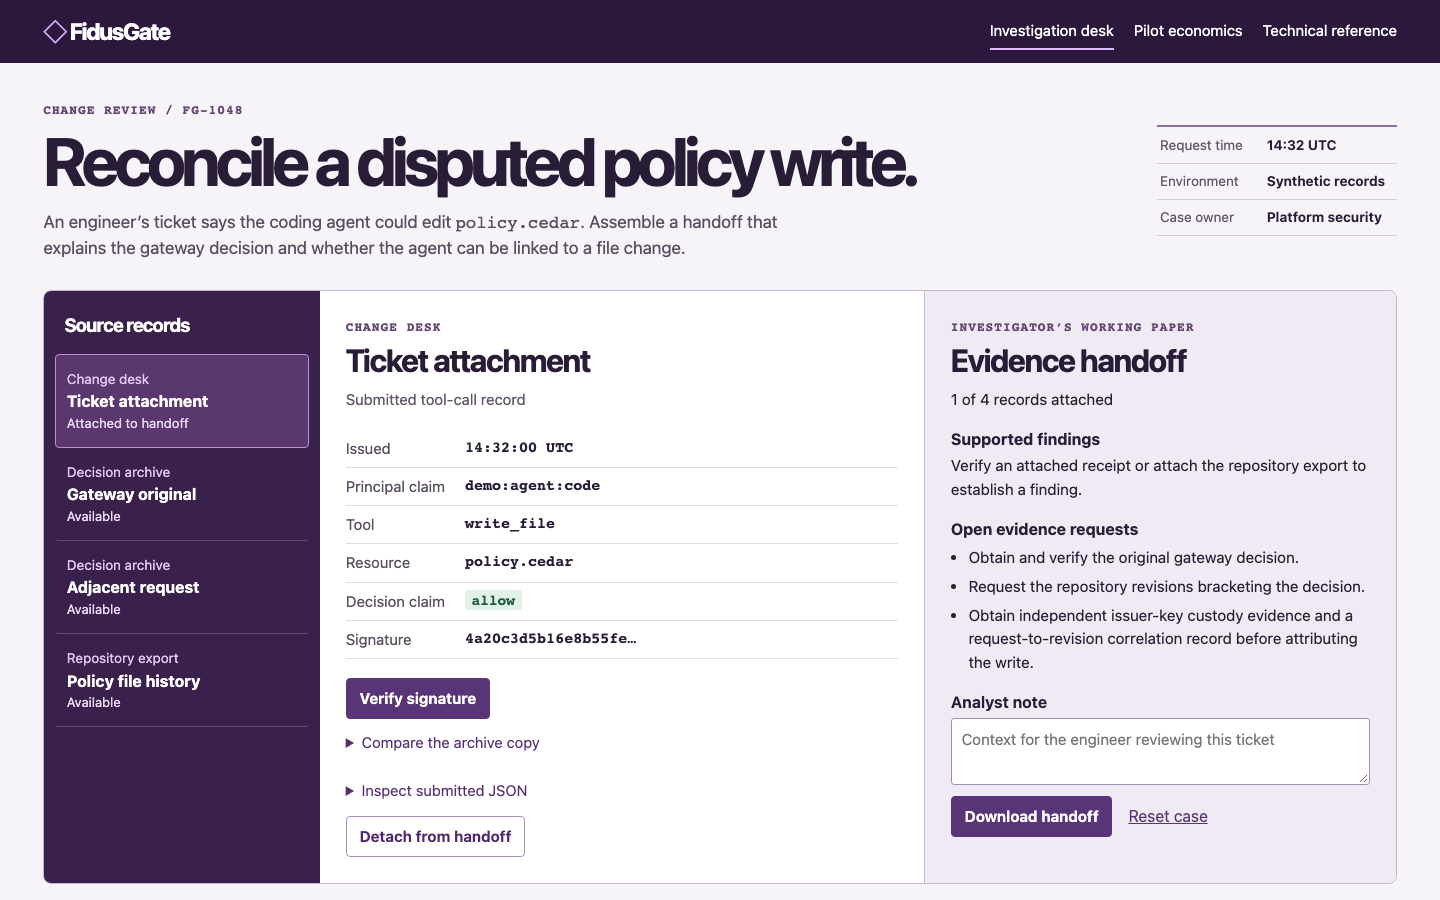
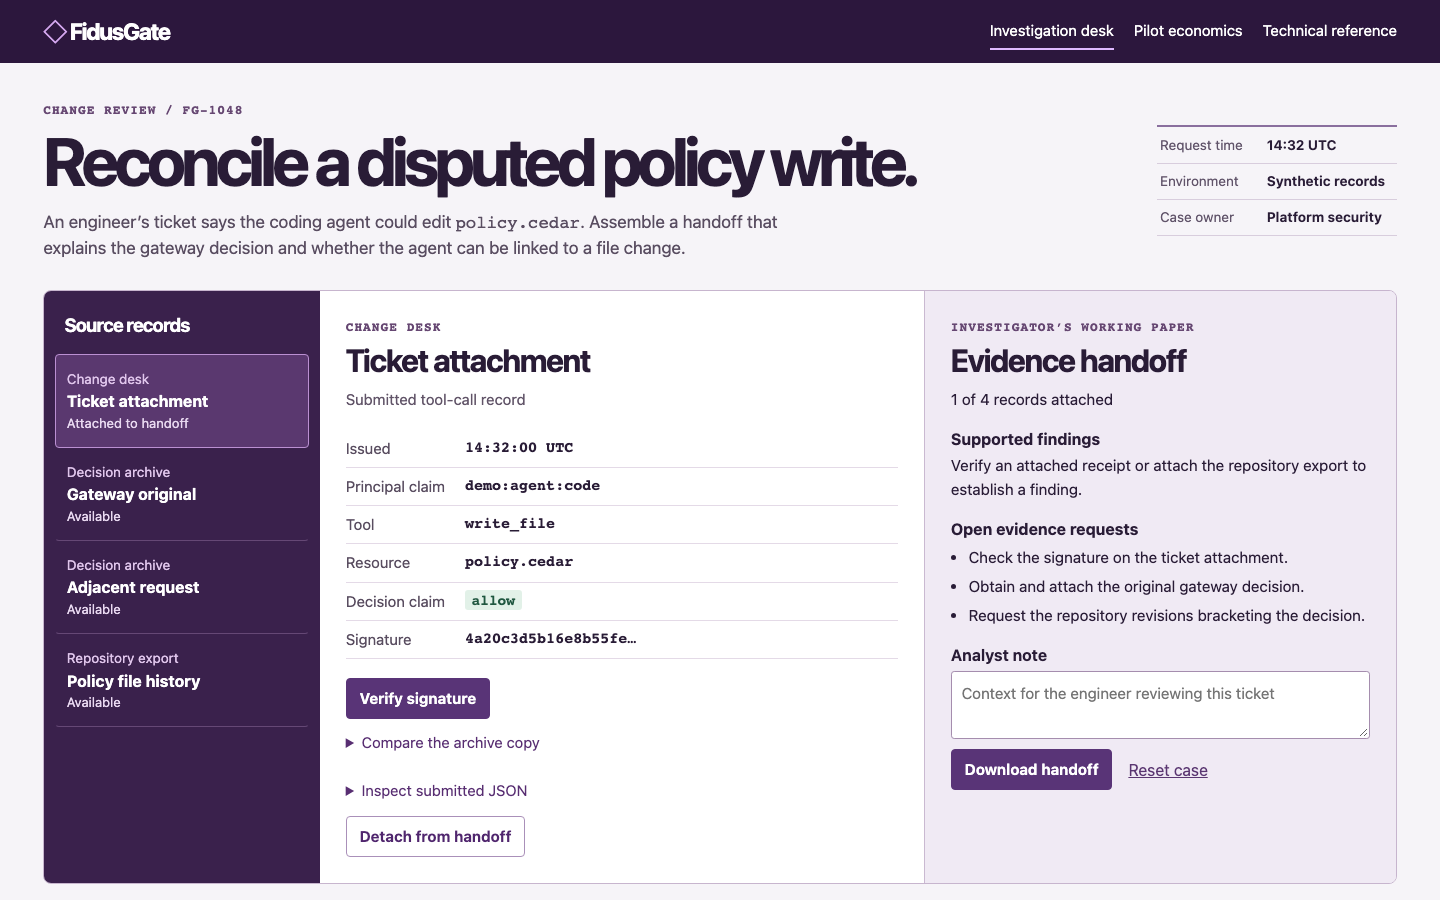
Track outstanding checks from attached evidence

Changed region(s): [[0.6562, 0.5911, 0.9375, 0.9333]]

diff --git a/apps/admin-dashboard/src/ReceiptConsole.tsx b/apps/admin-dashboard/src/ReceiptConsole.tsx
@@ -121,6 +121,35 @@ function findingList(attached: RecordId[], checks: Checks) {
   return findings;
 }
 
+function openRequests(attached: RecordId[], checks: Checks) {
+  const outstanding: string[] = [];
+  for (const record of records) {
+    if (!('receipt' in record)) continue;
+    if (!attached.includes(record.id)) {
+      if (record.id === 'ticket') outstanding.push('Attach the disputed ticket copy for comparison.');
+      if (record.id === 'archive') outstanding.push('Obtain and attach the original gateway decision.');
+      continue;
+    }
+    const result = checks[record.id]?.status;
+    if (!result) outstanding.push(`Check the signature on the ${record.title.toLowerCase()}.`);
+    if (result === 'unsupported' || result === 'error') {
+      outstanding.push(`Recheck the ${record.title.toLowerCase()} with a compatible verifier.`);
+    }
+    if (result === 'invalid' && record.id !== 'ticket') {
+      outstanding.push(`Request an intact copy of the ${record.title.toLowerCase()} from its source.`);
+    }
+  }
+  if (attached.includes('archive') && checks.archive?.status === 'valid') {
+    outstanding.push('Establish custody of the operational issuer key independently.');
+  }
+  if (attached.includes('history')) {
+    outstanding.push('Request a correlation record for revision 808 before attributing the write.');
+  } else {
+    outstanding.push('Request the repository revisions bracketing the decision.');
+  }
+  return outstanding;
+}
+
 function EvidenceDesk() {
   const [active, setActive] = useState<RecordId>('ticket');
   const [attached, setAttached] = useState<RecordId[]>(['ticket']);
@@ -132,15 +161,7 @@ function EvidenceDesk() {
   const raw = 'receipt' in selected ? selected.receipt : undefined;
   const packet = raw ? (JSON.parse(raw) as typeof archive.receipt) : undefined;
   const findings = findingList(attached, checks);
-  const missing = [
-    ...(!attached.includes('archive') || checks.archive?.status !== 'valid'
-      ? ['Obtain and verify the original gateway decision.']
-      : []),
-    ...(!attached.includes('history')
-      ? ['Request the repository revisions bracketing the decision.']
-      : []),
-    'Obtain independent issuer-key custody evidence and a request-to-revision correlation record before attributing the write.',
-  ];
+  const missing = openRequests(attached, checks);
   const handoff = {
     case: 'FG-1048',
     scope: 'Synthetic browser exercise. No live investigation.',

diff --git a/apps/admin-dashboard/src/ReceiptConsole.test.tsx b/apps/admin-dashboard/src/ReceiptConsole.test.tsx
@@ -61,6 +61,28 @@ describe('FG-1048 evidence handoff', () => {
     expect(exported().findings).not.toContainEqual(expect.stringMatching(/two revisions/));
   });
 
+  it('keeps the disputed copy outstanding while limiting follow-ups to attached evidence', async () => {
+    vi.mocked(verifyDemoReceipt).mockResolvedValueOnce({status: 'valid', message: 'Matches'});
+    render(<ReceiptConsole />);
+    const initial = exported().openRequests;
+    expect(initial).toContain('Check the signature on the ticket attachment.');
+    expect(initial.join(' ')).not.toMatch(/custody|correlation|revision 808/i);
+    fireEvent.click(screen.getByRole('button', {name: /Decision archive Gateway original/}));
+    fireEvent.click(screen.getByRole('button', {name: 'Attach to handoff'}));
+    fireEvent.click(screen.getByRole('button', {name: 'Verify signature'}));
+    await screen.findByText('VALID');
+    fireEvent.click(screen.getByRole('button', {name: /Repository export Policy file history/}));
+    fireEvent.click(screen.getByRole('button', {name: 'Attach to handoff'}));
+    const requests = exported().openRequests;
+    expect(requests).toContain('Check the signature on the ticket attachment.');
+    expect(requests).toContainEqual(expect.stringMatching(/correlation record for revision 808/));
+    fireEvent.click(screen.getByRole('button', {name: 'Detach from handoff'}));
+    expect(exported().openRequests.join(' ')).not.toMatch(/correlation|revision 808/i);
+    fireEvent.click(screen.getByRole('button', {name: /Change desk Ticket attachment/}));
+    fireEvent.click(screen.getByRole('button', {name: 'Detach from handoff'}));
+    expect(exported().openRequests).toContain('Attach the disputed ticket copy for comparison.');
+  });
+
   it('discards a pending signature check when the case is reset', async () => {
     let finish: ((result: VerificationResult) => void) | undefined;
     vi.mocked(verifyDemoReceipt).mockImplementation(
